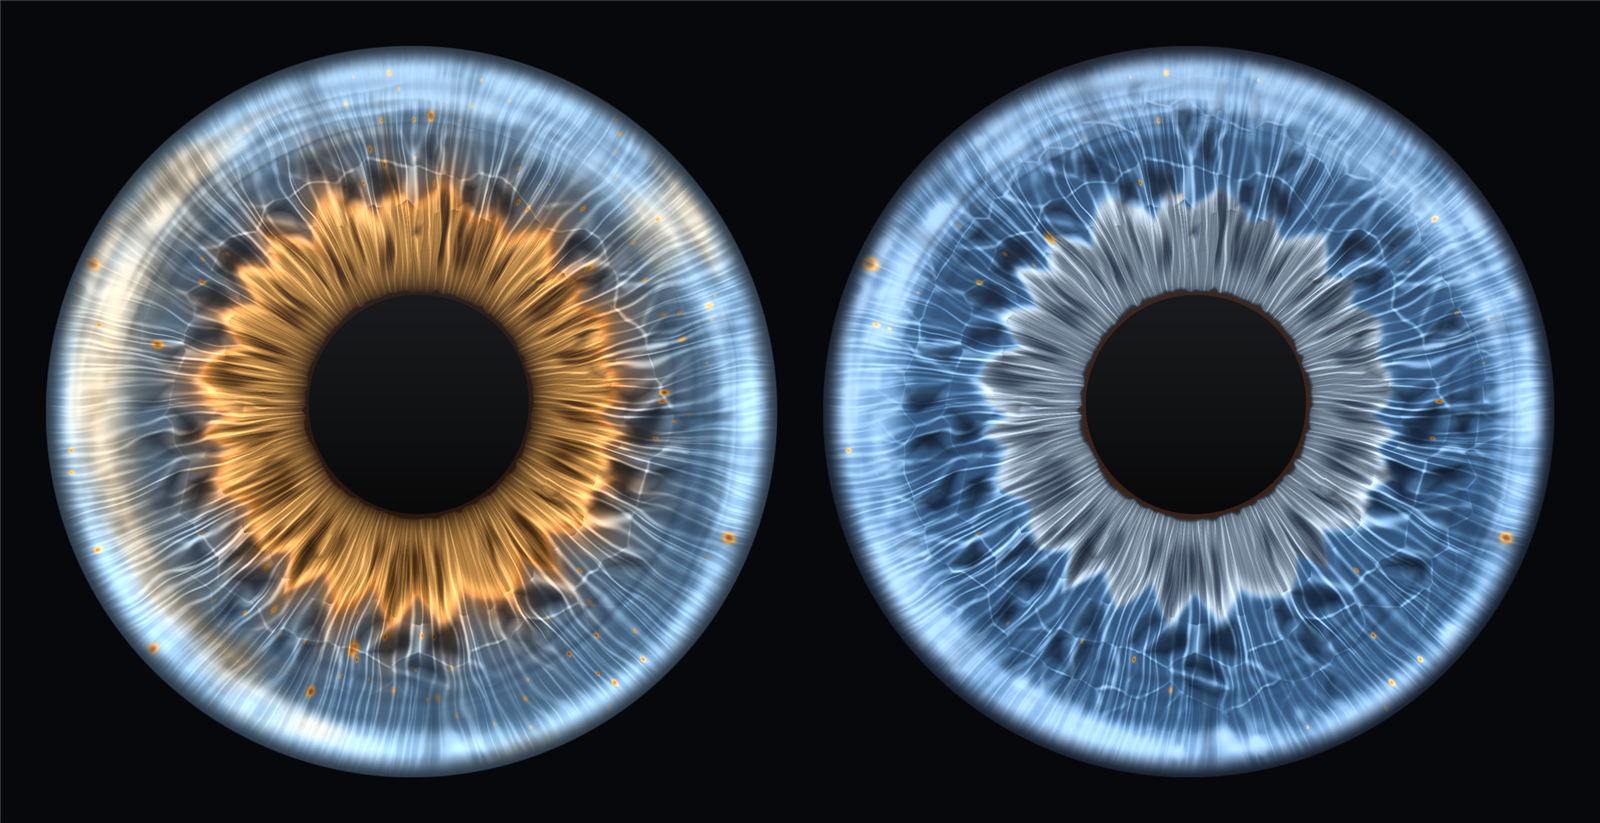
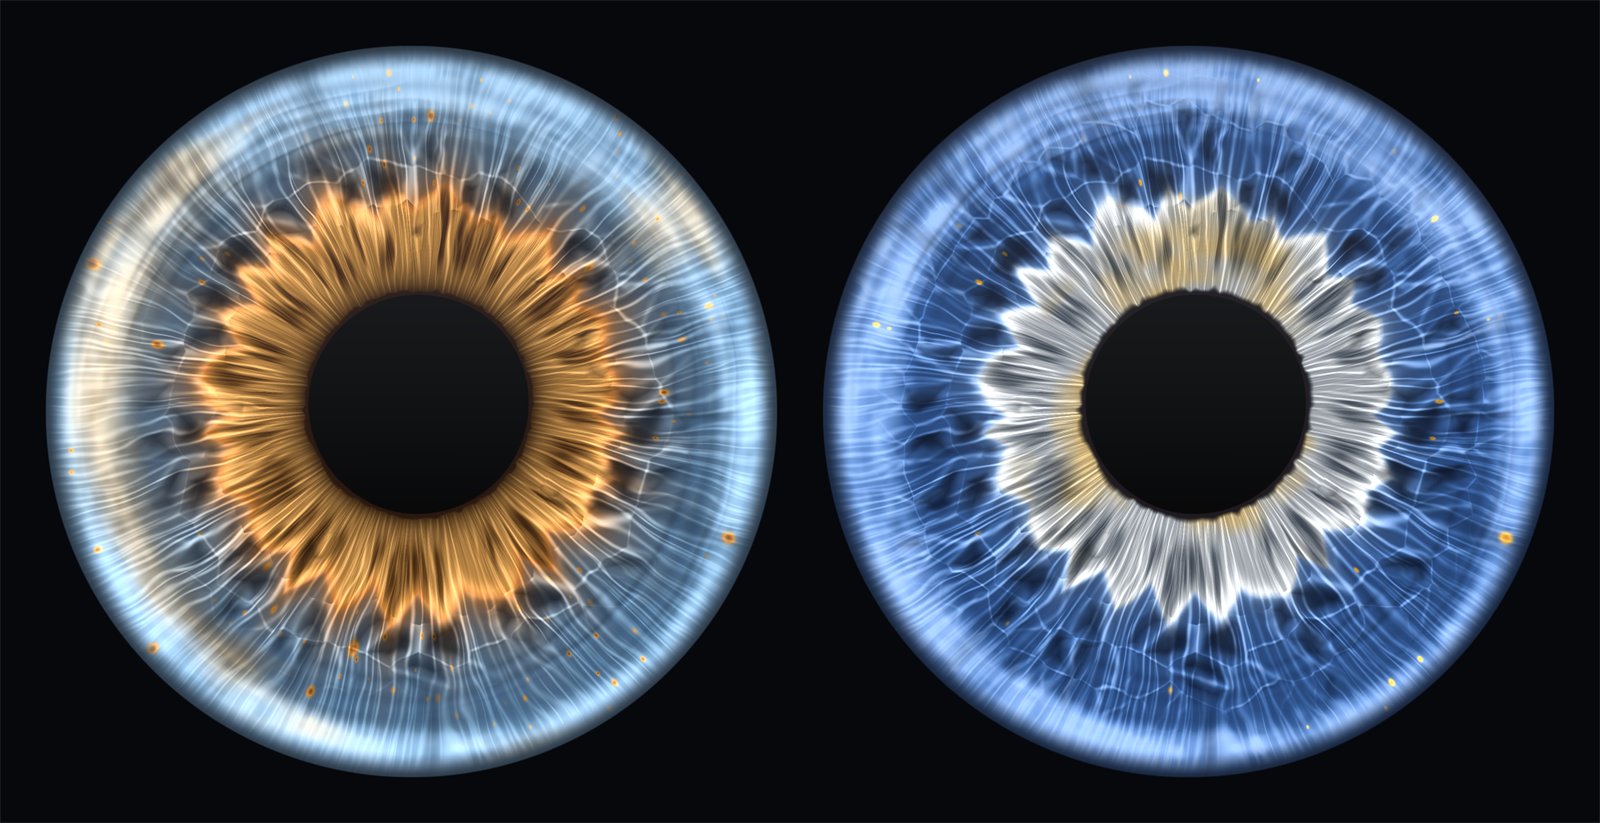
🍱 Show multi_color and eye_poster in the README
The two eyes side by side on a dark ground, a warm amber pupillary zone against a pale
silver one, so the difference between them reads at a glance.

diff --git a/README.md b/README.md
@@ -1,6 +1,6 @@
 # Stroma
 
-![The multi_color and band-iris eyes, rendered by Stroma](public/stroma.png)
+![The multi_color and eye_poster eyes, rendered by Stroma](public/stroma.png)
 
 **The demo runs at <https://woldbye.github.io/Stroma/>** — the eye face on, with each of its
 anatomical layers on a switch. It needs WebGL2, and says so in place of the eye where it cannot
